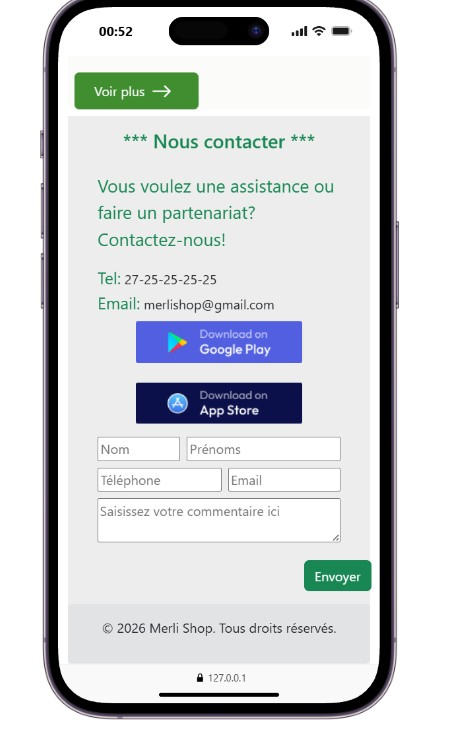
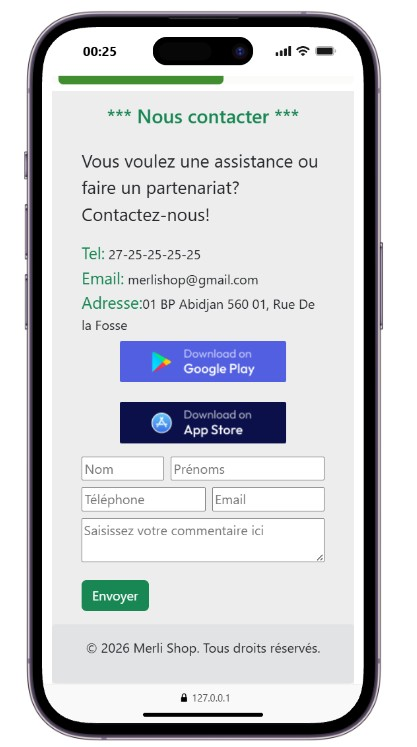
Mise à jour Projet V3

diff --git a/index.html b/index.html
@@ -104,8 +104,7 @@
             <div class="row mb-3">
                 <!--produit 1-->
                 <div class="mt-1 col-lg-3 ">
-                    <div class="card h-100" ><!--position-absolute bottom-0-->
-                        <!--<h5 class="badge text-bg-success">  Nouveau </h5>-->
+                    <div class="card h-100" >
                         <i class="bi bi-suit-heart fs-4 position-absolute end-0 pe-2"></i>
                         <img src="images/basket.jpg" class="card-img-top object-fit-cover w-100" alt="Basket">
                         <div class="card-body">
@@ -125,7 +124,6 @@
                 <!--produit 2-->
                 <div class="mt-1 col-lg-3 ">
                     <div class="card h-100" >
-                        <!--<h5 class="badge text-bg-success">  Nouveau </h5>-->
                         <i class="bi bi-suit-heart fs-4 position-absolute end-0 pe-2"></i>
                         <img src="images/gourde.jpg" class="card-img-top object-fit-cover w-100" alt="Basket">
                         <div class="card-body">
@@ -165,7 +163,6 @@
                 <!--produit 4-->
                 <div class="mt-1 col-lg-3 ">
                     <div class="card h-100" >
-                        <!--<h5 class="badge text-bg-success">  Nouveau </h5>-->
                         <i class="bi bi-suit-heart fs-4 position-absolute end-0 pe-2"></i>
                         <img src="images/sac_dos.jpg" class="card-img-top object-fit-cover w-100" alt="Basket">
                         <div class="card-body">
@@ -190,7 +187,6 @@
                 <!--produit 1-->
                 <div class="mt-1 col-lg-3 ">
                     <div class="card h-100" >
-                        <!--<h5 class="badge text-bg-success">  Nouveau </h5>-->
                         <i class="bi bi-suit-heart fs-4 position-absolute end-0 pe-2"></i>
                         <img src="images/tablette.jpg" class="card-img-top object-fit-cover w-100" alt="Basket">
                         <div class="card-body">
@@ -199,7 +195,7 @@
                             <p class="d-flex align-items-center gap-1 mb-0">
                                 <i class="bi bi-star-fill text-warning"></i> <i class="bi bi-star-fill text-warning"></i> 
                                 <i class="bi bi-star-fill text-warning"></i>
-                                <span class="fs-4 ps-1">4.5</span>
+                                <span class="fs-4 ps-1">5.5</span>
                             </p>
                             <p class="fw-bold fs-4 mb-0"> 80.500 F </p>
                         </div>
@@ -231,7 +227,6 @@
                 <!--produit 3-->
                 <div class="mt-1 col-lg-3 ">
                     <div class="card h-100" >
-                        <!--<h5 class="badge text-bg-success">  Nouveau </h5>-->
                         <i class="bi bi-suit-heart fs-4 position-absolute end-0 pe-2"></i>
                         <img src="images/sac_main.jpg" class="card-img-top object-fit-cover w-100"" alt="Basket">
                         <div class="card-body">
@@ -251,7 +246,6 @@
                 <!--produit 4-->
                 <div class="mt-1 col-lg-3 ">
                     <div class="card h-100" >
-                        <!--<h5 class="badge text-bg-success">  Nouveau </h5>-->
                         <i class="bi bi-suit-heart fs-4 position-absolute end-0 pe-2"></i>
                         <img src="images/chaussures.jpg" class="card-img-top object-fit-cover w-100" alt="Basket">
                         <div class="card-body">
@@ -280,7 +274,7 @@
                         <h1>Jusqu'à -50% sur vos articles</h1>
                         <p>Offre à durée limitée sur une sélection d'articles. <br>Profitez vite des meilleures offres !</p>
                         <span class="mt-4 d-flex align-items-center gap-2 rounded-2 px-4 py-1 bouton1 ">
-                            <a href="#" class="text-decoration-none text-light">Voir plus</a>
+                            <a href="#" class="text-decoration-none text-light w-auto">En savoir plus</a>
                             <i class="bi bi-arrow-right fs-2"></i>
                         </span>     
                     </div>
@@ -295,14 +289,15 @@
 
     <!-- Pied de page -->
     <footer class="pt-2">
-        <!-- section tel et formulaire -->
+        <!-- section contacts et formulaire -->
         <section class="footer1" id="contacts">
             <h3 class="text-center text-success py-3">*** Nous contacter ***</h3>
             <div class="row align-items-center">
                 <div class="col-lg-6 px-5">
-                    <p class="fs-4 text-success">Vous voulez une assistance ou faire un partenariat? <br> Contactez-nous!</p>
+                    <p class="fs-4">Vous voulez une assistance ou faire un partenariat? <br> Contactez-nous!</p>
                     <span><span class="fs-5 text-success">Tel:</span> 27-25-25-25-25</span><br>
-                    <span class="mb-5"><span class="fs-5 text-success">Email:</span> merlishop@gmail.com</span>
+                    <span class="mb-5"><span class="fs-5 text-success">Email:</span> merlishop@gmail.com</span><br>
+                    <span class="mb-5"><span class="fs-5 text-success">Adresse:</span>01 BP Abidjan 560 01, Rue De la Fosse</span>
                    <div class="pt-2 d-flex flex-md-row flex-column align-items-center justify-content-start gap-3 gap-lg-5 mb-2" >
                         <img src="images/google-play.jpg.jpeg" alt="google">
                         <img src="images/app-store.jpg.jpeg" alt="apple" class="mt-2 mt-md-0">

diff --git a/style.css b/style.css
@@ -38,11 +38,6 @@ nav{
     padding-left:0;
     }
 }
-/*@media(min-width:1200px){
-    .div-menu{
-    padding-left: 60%;
-    }
-}*/
 
 .div-menu ul li a{
     color: var(--noir);
@@ -104,7 +99,7 @@ nav{
 }
 
 
-/* Style produits */
+/* Stylepour la section produits */
 .section-produit{
     margin-top: 100px;
 }
@@ -121,7 +116,7 @@ nav{
 }
 
 
-/* Style reduction */
+/* Style pour la section reduction */
 
 .section-reduction{
     background:#408e2f06; 
@@ -130,17 +125,16 @@ nav{
 }
 
 .section-reduction span{
-    width:150px;
+    width:200px;
 }
 
 .section-reduction img{
     max-height: 500px;
     max-height: 500px;
-    /*margin-left: 25%;*/
 }
 
 
-/* style footer */
+/* style pour le footer */
 .footer1{
     background-color: rgba(128, 128, 128, 0.142)
 }
@@ -164,3 +158,9 @@ nav{
     margin-left: 85%;
 }
 
+@media(max-width:999px){
+    .footer1 .btn{
+    text-align: center;
+    margin-left: 0;
+}
+}
